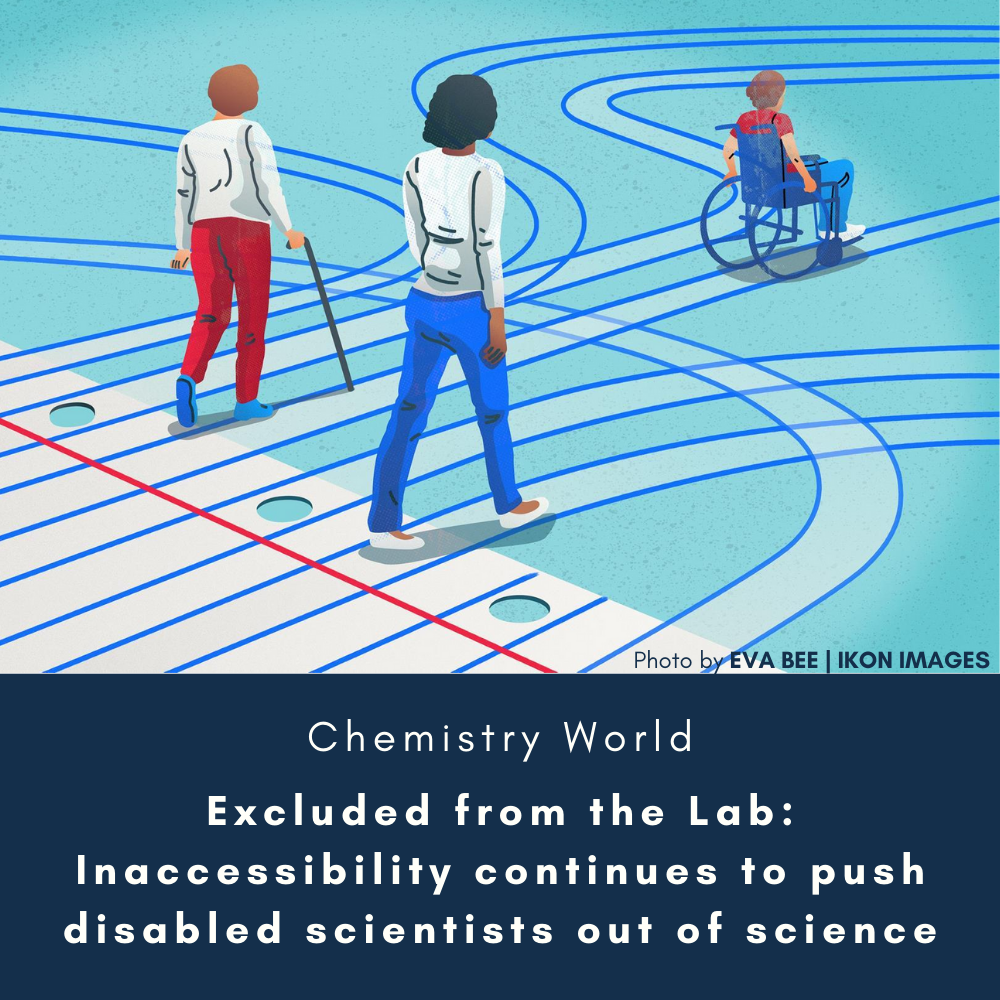
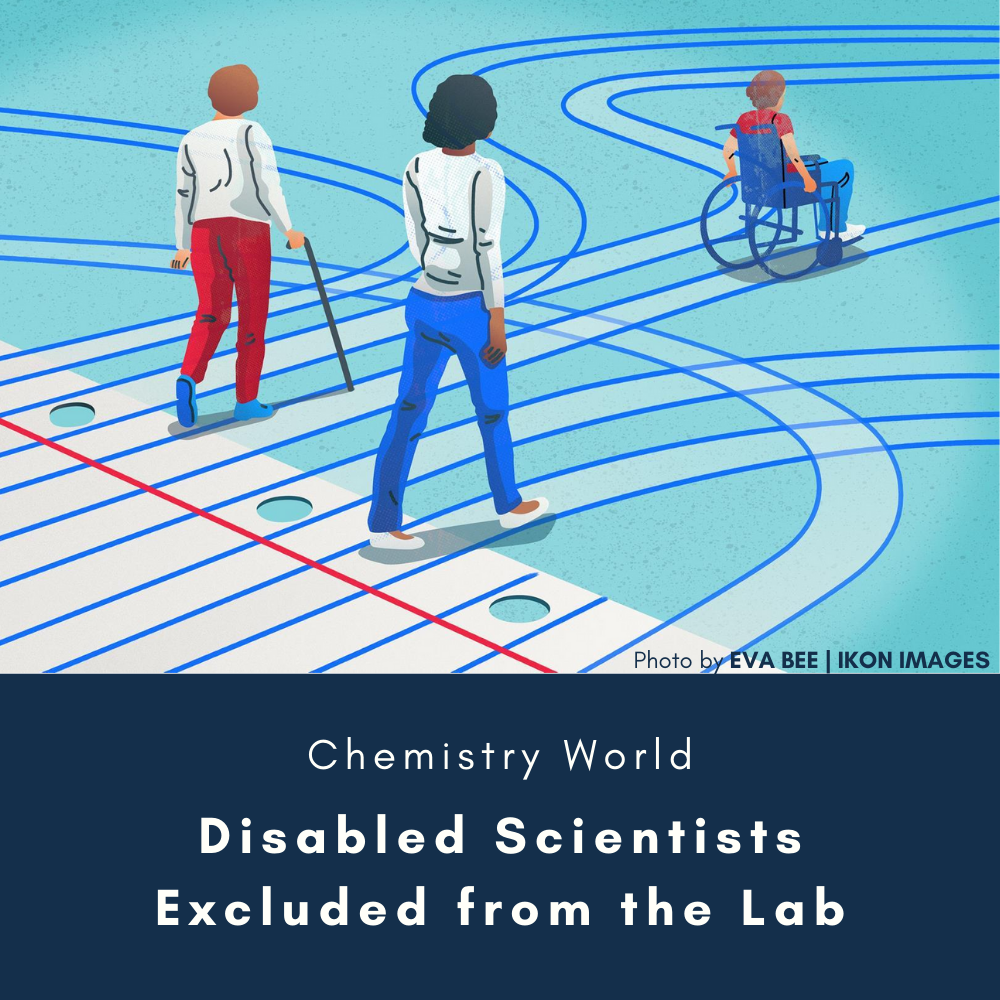
updated image on writing.html as well as alt text

Changed region(s): [[0.062, 0.713, 0.93, 0.961]]

diff --git a/writing.html b/writing.html
@@ -79,7 +79,7 @@
         <div class="col-xs-12 col-sm-6">
            <div class="panel panel-default">
              <div class="panel-body">
-                 <a href="https://www.chemistryworld.com/opinion/disabled-scientists-excluded-from-the-lab/4012695.article" target="_blank"><img src="writing/img/chemworld_LabAccessibility.png" class="img img-responsive img-thumbnail" alt="Excluded from the Lab: Inaccessibility continues to push disabled scientists out of science"></a>
+                 <a href="https://www.chemistryworld.com/opinion/disabled-scientists-excluded-from-the-lab/4012695.article" target="_blank"><img src="writing/img/chemworld_LabAccessibility.png" class="img img-responsive img-thumbnail" alt="Disabled Scientist Excluded from the Lab"></a>
              </div>
            </div>
         </div>
